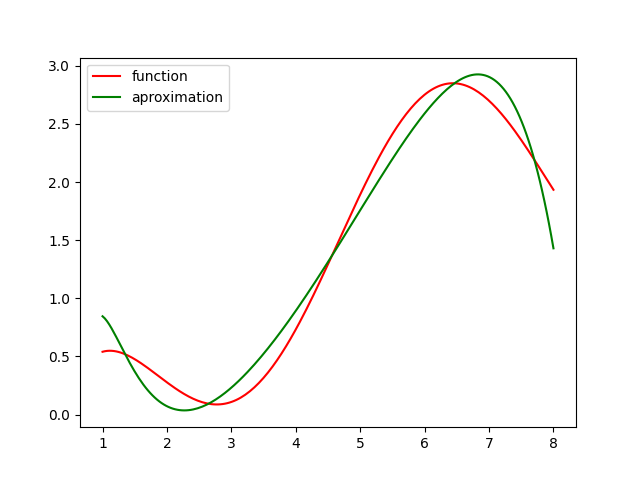
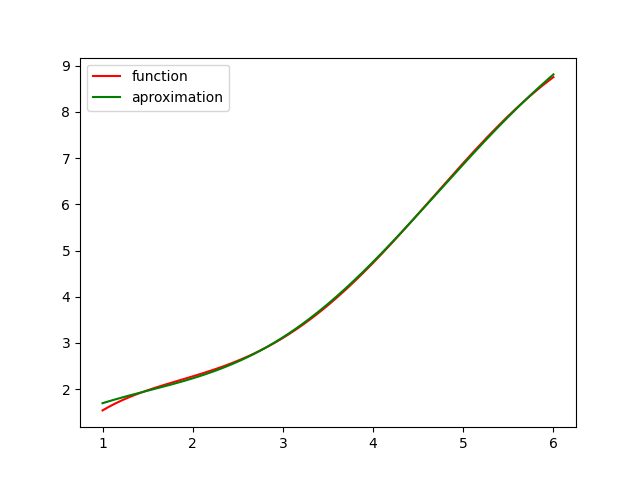
update

diff --git a/Aproximação de funções/Aprox.py b/Aproximação de funções/Aprox.py
@@ -35,19 +35,19 @@ def build_aprox_func(func_list, coeffs):
 if __name__ == '__main__':
     
     # Exemplo 01:
-    func_list = [lambda x : x**2 + 1, lambda x : e**x, lambda x : 1/(x**2 + 1), lambda x: 1/x]
+    func_list = [lambda x: sin(x), lambda x: cos(x), lambda x: e**x, lambda x: x]
 
     def f(x):
-        return log(x, e) + cos(x)
+        return log(x, e) + cos(x) + x
 
     a = 1
-    b = 8
-    n = 100
+    b = 6
+    n = 256
 
     coeffs = aprox_coeffs(func_list, f, a, b, n)
     g = build_aprox_func(func_list, coeffs)
 
-    t = np.linspace(1, 8, 200)
+    t = np.linspace(a, b, 200)
     ft = [f(ti) for ti in t]
     gt = [g(ti) for ti in t]
 
